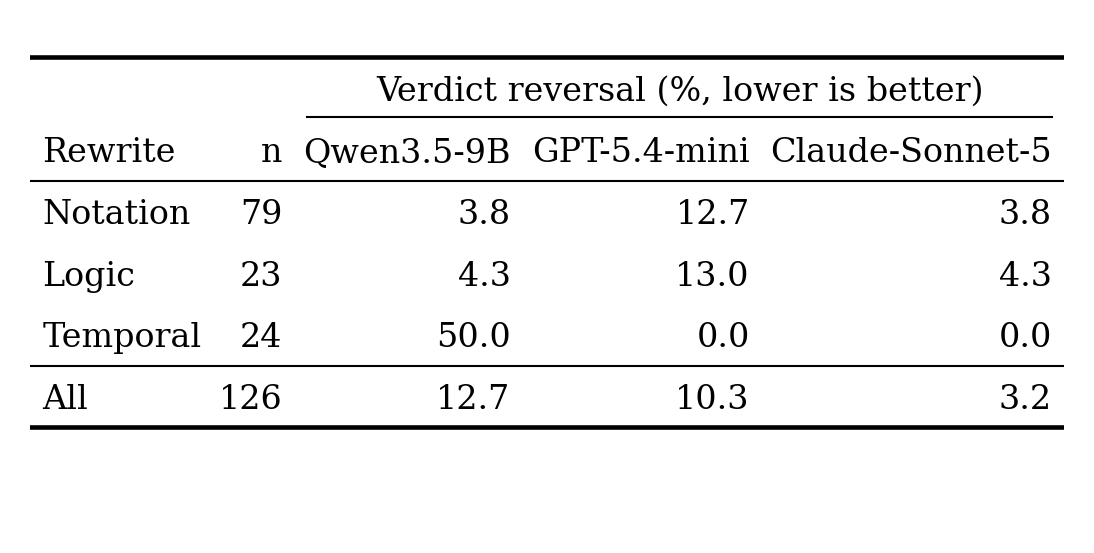
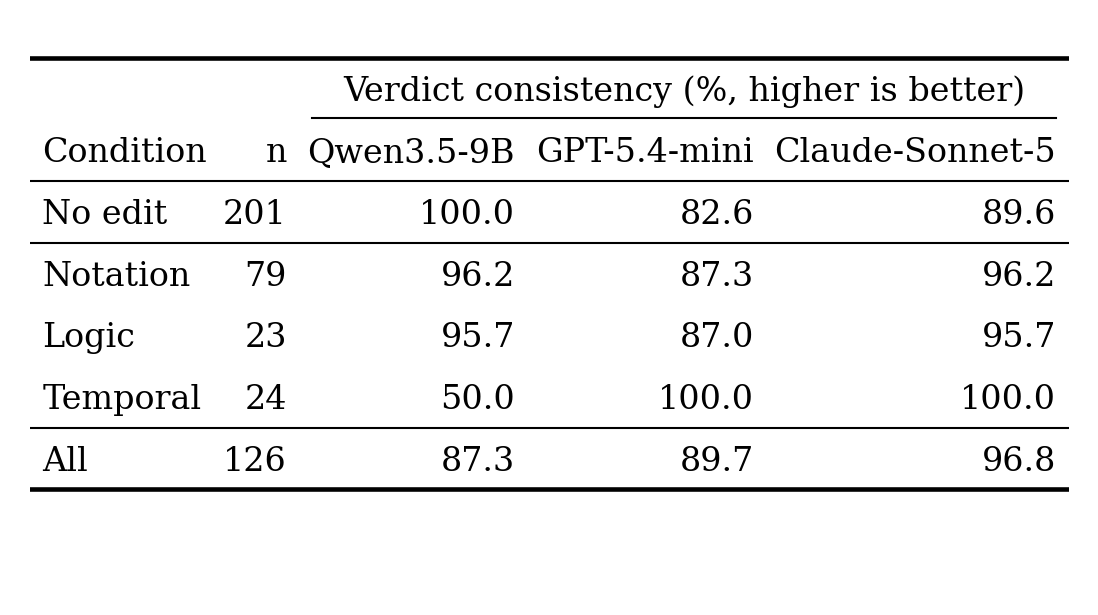
motivation: report verdict consistency, and put the no-edit row back in the table
Reversal rates read against the grain: the reader has to invert every cell to
answer "how much of this judge can I trust". Report 100 minus the rate instead,
so higher is better throughout.

That inversion is only safe with the no-edit row inside the table. On its own,
Temporal reads 100.0 for both hosted judges -- they look flawless on exactly the
rewrites that break the local one -- when in fact they contradict themselves on
17.4% and 10.4% of programs before any rewrite exists. With the row back in,
both hosted judges' weakest cell is the one where nothing was edited, and the
two failure modes separate on sight: the local judge falls 100.0 to 50.0, the
hosted ones never climb far above where they started.

The two quantities share a column because they measure the same thing -- the
share of items on which the judge did not contradict itself -- though over
different populations, which the n column carries: 201 seed programs for the
no-edit row, the 126 common-set rewrites for the others.

Stub header becomes Condition, since the first row is not a rewrite.

Recorded in the handoff that the prose must lead with counts, not percentages:
87-100 reads as reassuring to anyone skimming, and the claim lives in "10 of the
11 unrolled loops were reversed", not in "50.0".

Changed region(s): [[0.0311, 0.0922, 0.9945, 0.7993]]

diff --git a/PerCom/6_Evaluation/motivation_judge/render_table.py b/PerCom/6_Evaluation/motivation_judge/render_table.py
@@ -22,15 +22,22 @@ BANDS = [("Notation", "spelling"), ("Logic", "logic"), ("Temporal", "temporal")]
 
 
 def table(C):
-    """Stub, n, and one reversal rate per judge -- one shared denominator per row, because every
-    judge is asked about the same programs."""
+    """Stub, n, and one consistency figure per judge.
+
+    Both rows measure the same thing -- the share of items on which the judge did not contradict
+    itself -- so they share a column. The first row is over every seed program, asked three times
+    identically, with no selection; the rest are over the rewrites of the common set. Reported as
+    100 minus the reversal rate, so that higher is better throughout.
+    """
     judges = list(C["judges"])
-    body = []
+    sd = C["self_disagreement"]
+    body = [("No edit", str(sd[judges[0]]["seeds"]),
+             [f"{100 * (1 - sd[j]['rate']):.1f}" for j in judges])]
     for lab, b in BANDS:
         x = [C["judges"][j]["by_band"][b] for j in judges]
-        body.append((lab, str(x[0]["pairs"]), [f"{100 * v['rate']:.1f}" for v in x]))
+        body.append((lab, str(x[0]["pairs"]), [f"{100 * (1 - v['rate']):.1f}" for v in x]))
     x = [C["judges"][j]["overall"] for j in judges]
-    body.append(("All", str(x[0]["pairs"]), [f"{100 * v['rate']:.1f}" for v in x]))
+    body.append(("All", str(x[0]["pairs"]), [f"{100 * (1 - v['rate']):.1f}" for v in x]))
     return judges, body
 
 
@@ -46,7 +53,7 @@ def text_pt(txt, fontsize):
 
 def render(C, width_in, fontsize, out, colsep_pt=3.0):
     judges, body = table(C)
-    stub = ["Rewrite"] + [r[0] for r in body]
+    stub = ["Condition"] + [r[0] for r in body]
     ncol = ["n"] + [r[1] for r in body]
     cols = [[HDR[j]] + [r[2][k] for r in body] for k, j in enumerate(judges)]
     sw = max(text_pt(t, fontsize) for t in stub)
@@ -86,17 +93,17 @@ def render(C, width_in, fontsize, out, colsep_pt=3.0):
     span_l, span_r = right[0] - cw[0], right[-1]
     y = nrow - 1.0
     ax.plot([0, need], [y + 0.55] * 2, lw=1.1, color="k")              # \toprule
-    ax.text((span_l + span_r) / 2, y, "Verdict reversal (\\%, lower is better)".replace("\\", ""),
+    ax.text((span_l + span_r) / 2, y, "Verdict consistency (%, higher is better)",
             ha="center", va="center", **fp)
     ax.plot([span_l, span_r], [y - 0.42] * 2, lw=0.5, color="k")       # \cmidrule
     y -= 1
-    row("Rewrite", "n", [HDR[j] for j in judges], y)
+    row("Condition", "n", [HDR[j] for j in judges], y)
     y -= 1
     ax.plot([0, need], [y + 0.55] * 2, lw=0.5, color="k")              # \midrule
 
     for i, (a, b, vals) in enumerate(body):
         row(a, b, vals, y)
-        if i == len(body) - 2:
+        if i in (0, len(body) - 2):
             ax.plot([0, need], [y - 0.45] * 2, lw=0.5, color="k")
         y -= 1
     ax.plot([0, need], [y + 0.55] * 2, lw=1.1, color="k")              # \bottomrule
@@ -106,37 +113,37 @@ def render(C, width_in, fontsize, out, colsep_pt=3.0):
 
 
 CAPTION = (
-    "How often each judge reverses itself on a rewrite that provably preserves behavior. "
-    "Every original program was submitted three times, identically; the {n} programs kept here "
-    "are those that all three judges called correct in at least two of their three asks, so one "
-    "set of programs and one denominator serves every column. Each cell is the share of that "
-    "band's rewrites the judge then rejected, having reliably accepted the program they were "
-    "derived from. Notation renames a variable, mirrors a comparison ({cmp}), changes the time "
-    "unit, or respells `at least one device in a group matches'; Logic negates a guard and swaps "
-    "the branches; Temporal splits one delay into two, unrolls a counted periodic loop, or "
-    "replaces an integer phase counter with a boolean flag. Every rewrite is certified "
-    "behavior-preserving by the checker of Sec.~\\ref{{sec:explorer}}. Before any rewrite, the "
-    "judges already disagree with themselves across the three identical asks on {sd} of the {tot} "
-    "programs. The judges are \\texttt{{Qwen3.5-9B-fp8}} served locally at temperature 0, and "
-    "\\texttt{{gpt-5.4-mini-2026-03-17}} and \\texttt{{claude-sonnet-5}} at low reasoning effort; "
-    "neither hosted model exposes a temperature control.")
+    "How often each judge stands by its own verdict, as a percentage of the items presented; "
+    "higher is better. The first row asks nothing new: every one of the {tot} seed programs was "
+    "submitted three times, identically, and the figure is the share on which all three answers "
+    "agreed. It is unconditional -- no program is excluded -- and it bounds what any rewrite "
+    "result below can mean. The remaining rows take the {n} programs that all three judges called "
+    "correct in at least two of those three asks, so one set of programs and one denominator "
+    "serves every column, and report the share of each band's rewrites the judge still accepted. "
+    "Notation renames a variable, mirrors a comparison ({cmp}), changes the time unit, or "
+    "respells `at least one device in a group matches'; Logic negates a guard and swaps the "
+    "branches; Temporal splits one delay into two, unrolls a counted periodic loop, or replaces "
+    "an integer phase counter with a boolean flag. Every rewrite is certified behavior-preserving "
+    "by the checker of Sec.~\\ref{{sec:explorer}}, so every point below 100 is a judge "
+    "contradicting itself. The judges are \\texttt{{Qwen3.5-9B-fp8}} served locally at "
+    "temperature 0, and \\texttt{{gpt-5.4-mini-2026-03-17}} and \\texttt{{claude-sonnet-5}} at "
+    "low reasoning effort; neither hosted model exposes a temperature control.")
 
 
 def write_tex(C):
     judges, body = table(C)
-    sd = ", ".join(f"{HDR[j]} {v['disagreed']}" for j, v in C["self_disagreement"].items())
-    cap = CAPTION.format(n=len(C["common_seeds"]), tot=C["seeds_total"], sd=sd,
+    cap = CAPTION.format(n=len(C["common_seeds"]), tot=C["seeds_total"],
                          cmp="\\texttt{x >= 26} becomes \\texttt{26 <= x}")
     L = [r"\begin{table}[t]", r"\centering", r"\caption{" + cap + "}", r"\label{tab:judge}",
          r"\footnotesize", r"\setlength{\tabcolsep}{3pt}",
          r"\begin{tabular}{lr rrr}", r"\toprule",
-         r" & & \multicolumn{3}{c}{Verdict reversal (\%, lower is better)} \\",
+         r" & & \multicolumn{3}{c}{Verdict consistency (\%, higher is better)} \\",
          r"\cmidrule(lr){3-5}",
-         "Rewrite & $n$ & " + " & ".join(HDR[j] for j in judges) + r" \\", r"\midrule"]
+         "Condition & $n$ & " + " & ".join(HDR[j] for j in judges) + r" \\", r"\midrule"]
     for i, (a, b, vals) in enumerate(body):
-        if i == len(body) - 1:
-            L.append(r"\midrule")
         L.append(f"{a} & {b} & " + " & ".join(vals) + r" \\")
+        if i in (0, len(body) - 2):
+            L.append(r"\midrule")
     L += [r"\bottomrule", r"\end{tabular}", r"\end{table}"]
     p = os.path.join(HERE, "results", "table1.tex")
     open(p, "w").write("\n".join(L) + "\n")

diff --git a/PerCom/6_Evaluation/motivation_judge/results/table1.tex b/PerCom/6_Evaluation/motivation_judge/results/table1.tex
@@ -1,20 +1,22 @@
 \begin{table}[t]
 \centering
-\caption{How often each judge reverses itself on a rewrite that provably preserves behavior. Every original program was submitted three times, identically; the 52 programs kept here are those that all three judges called correct in at least two of their three asks, so one set of programs and one denominator serves every column. Each cell is the share of that band's rewrites the judge then rejected, having reliably accepted the program they were derived from. Notation renames a variable, mirrors a comparison (\texttt{x >= 26} becomes \texttt{26 <= x}), changes the time unit, or respells `at least one device in a group matches'; Logic negates a guard and swaps the branches; Temporal splits one delay into two, unrolls a counted periodic loop, or replaces an integer phase counter with a boolean flag. Every rewrite is certified behavior-preserving by the checker of Sec.~\ref{sec:explorer}. Before any rewrite, the judges already disagree with themselves across the three identical asks on Qwen3.5-9B 0, GPT-5.4-mini 35, Claude-Sonnet-5 21 of the 201 programs. The judges are \texttt{Qwen3.5-9B-fp8} served locally at temperature 0, and \texttt{gpt-5.4-mini-2026-03-17} and \texttt{claude-sonnet-5} at low reasoning effort; neither hosted model exposes a temperature control.}
+\caption{How often each judge stands by its own verdict, as a percentage of the items presented; higher is better. The first row asks nothing new: every one of the 201 seed programs was submitted three times, identically, and the figure is the share on which all three answers agreed. It is unconditional -- no program is excluded -- and it bounds what any rewrite result below can mean. The remaining rows take the 52 programs that all three judges called correct in at least two of those three asks, so one set of programs and one denominator serves every column, and report the share of each band's rewrites the judge still accepted. Notation renames a variable, mirrors a comparison (\texttt{x >= 26} becomes \texttt{26 <= x}), changes the time unit, or respells `at least one device in a group matches'; Logic negates a guard and swaps the branches; Temporal splits one delay into two, unrolls a counted periodic loop, or replaces an integer phase counter with a boolean flag. Every rewrite is certified behavior-preserving by the checker of Sec.~\ref{sec:explorer}, so every point below 100 is a judge contradicting itself. The judges are \texttt{Qwen3.5-9B-fp8} served locally at temperature 0, and \texttt{gpt-5.4-mini-2026-03-17} and \texttt{claude-sonnet-5} at low reasoning effort; neither hosted model exposes a temperature control.}
 \label{tab:judge}
 \footnotesize
 \setlength{\tabcolsep}{3pt}
 \begin{tabular}{lr rrr}
 \toprule
- & & \multicolumn{3}{c}{Verdict reversal (\%, lower is better)} \\
+ & & \multicolumn{3}{c}{Verdict consistency (\%, higher is better)} \\
 \cmidrule(lr){3-5}
-Rewrite & $n$ & Qwen3.5-9B & GPT-5.4-mini & Claude-Sonnet-5 \\
+Condition & $n$ & Qwen3.5-9B & GPT-5.4-mini & Claude-Sonnet-5 \\
 \midrule
-Notation & 79 & 3.8 & 12.7 & 3.8 \\
-Logic & 23 & 4.3 & 13.0 & 4.3 \\
-Temporal & 24 & 50.0 & 0.0 & 0.0 \\
+No edit & 201 & 100.0 & 82.6 & 89.6 \\
 \midrule
-All & 126 & 12.7 & 10.3 & 3.2 \\
+Notation & 79 & 96.2 & 87.3 & 96.2 \\
+Logic & 23 & 95.7 & 87.0 & 95.7 \\
+Temporal & 24 & 50.0 & 100.0 & 100.0 \\
+\midrule
+All & 126 & 87.3 & 89.7 & 96.8 \\
 \bottomrule
 \end{tabular}
 \end{table}

diff --git a/PerCom/6_Evaluation/HANDOFF.md b/PerCom/6_Evaluation/HANDOFF.md
@@ -123,22 +123,20 @@
 한 번만 적고 칸은 % 만 남긴다. 세 판이 함께 안정적으로 통과시킨 프로그램이라 **"자연어가 애매해서
 거부했다"는 해석도 막힌다.**
 
-**1단계 — 자기불일치 (원본 201개, 3콜이 갈린 비율)**
+**표에 싣는 값은 `100 − 뒤집힘 비율`** 이다. "판이 자기 말을 안 바꾼 비율"로 읽히고 높을수록 좋다.
+두 종류(동일 재질의 / 등가 재작성)가 같은 단위라 한 열에 들어간다. **`No edit` 행을 표에서 빼면
+클라우드가 Temporal 100.0 으로 "완벽"해 보이므로 반드시 표 안에 둔다.**
 
-| 판 | 갈린 원본 | 95% CI |
-|---|---|---|
-| Qwen3.5-9B (로컬, temp 0) | **0/201 = 0.0%** | [0.0, 0.0] |
-| GPT-5.4-mini | 35/201 = 17.4% | [12.4, 22.4] |
-| Claude-Sonnet-5 | 21/201 = 10.4% | [6.5, 14.9] |
-
-**3단계 — 등가 재작성 거부 (공통 126쌍, 띠별)**
-
-| 띠 | n | Qwen | GPT | Claude |
+| Condition | n | Qwen3.5-9B | GPT-5.4-mini | Claude-Sonnet-5 |
 |---|---|---|---|---|
-| Notation (이름·비교 방향·시간 단위·그룹 조건 표기) | 79 | 3.8 | 12.7 | 3.8 |
-| Logic (조건 부정 + 분기 맞바꿈) | 23 | 4.3 | 13.0 | 4.3 |
-| Temporal (지연 쪼개기·반복문 펼치기·단계→깃발) | 24 | **50.0** | 0.0 | 0.0 |
-| 전체 | 126 | 12.7 | 10.3 | 3.2 |
+| No edit (동일 재질의, 3콜 전부 일치) | 201 | **100.0** | 82.6 | 89.6 |
+| Notation | 79 | 96.2 | 87.3 | 96.2 |
+| Logic | 23 | 95.7 | 87.0 | 95.7 |
+| Temporal | 24 | **50.0** | 100.0 | 100.0 |
+| All rewrites | 126 | 87.3 | 89.7 | 96.8 |
+
+읽는 법: Qwen 은 **100.0 → 50.0** 으로 떨어지고, 클라우드 둘은 **자기 열에서 가장 낮은 값이 `No edit`**
+이다. 세 판의 고장 방식이 다르다는 것이 열을 세로로 훑으면 보인다.
 
 - **원고에 쓸 때 지킬 것**
   - 주장은 **표기 민감성이 아니라 시간 구조**다. 공통집합에서 Qwen 의 `Cmp-Flip` 은 24.1%→7.7% 로
@@ -146,7 +144,10 @@
     공통집합에서 빠진다. **옛 "표현만 바꿔도 뒤집힌다" 문장을 그대로 쓰면 안 된다.**
   - 클라우드 두 판은 **재작성 이전에 자기와 불일치**한다(17.4% / 10.4%). 이 값이 재작성 거부율보다
     크므로, 클라우드의 거부를 재작성 탓으로 돌리지 않는다.
-  - `Loop-Unroll` 은 공통집합에서 **10/11 = 90.9%** 로 오히려 선명해진다. 모집단을 어떻게 잡아도
+  - **본문은 백분율이 아니라 건수로 시작한다.** 표의 87~100 은 훑으면 "높다"로 읽힌다. "반복문을
+    펼친 11개 중 10개에서 판정이 뒤집혔다", "GPT 는 201개 중 35개에서 자기와 어긋났다" 가 주장을 지고,
+    표는 뒷받침이다.
+  - `Loop-Unroll` 은 공통집합에서 **10/11 = 90.9% 뒤집힘** 으로 오히려 선명해진다. 모집단을 어떻게 잡아도
     안 흔들리는 유일한 유형이라 본문 문장으로 따로 쓴다.
   - 유형별(8개) 수치는 공통집합에서 표본이 얇다(Group-Cond 3, Phase-Flag 5). **표에는 띠 3개만** 싣고
     유형별은 `RESULTS.md` 에만 둔다.
